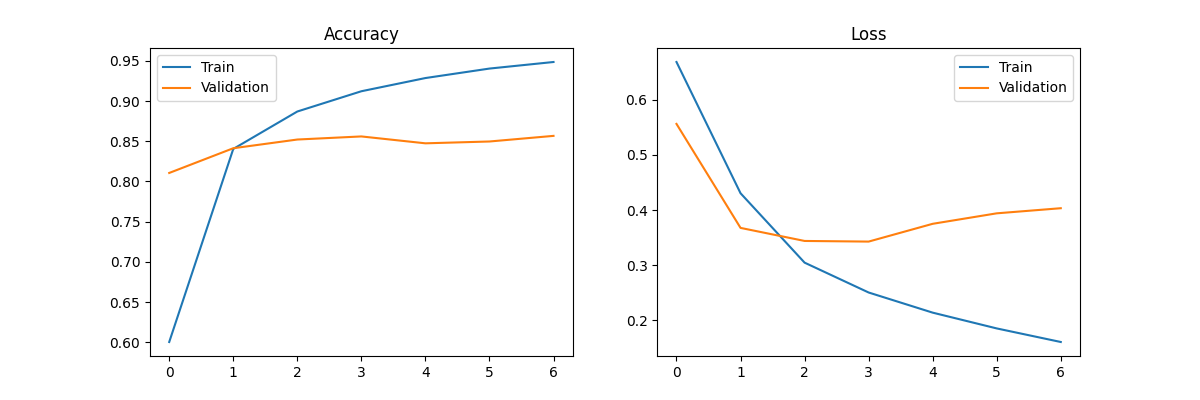
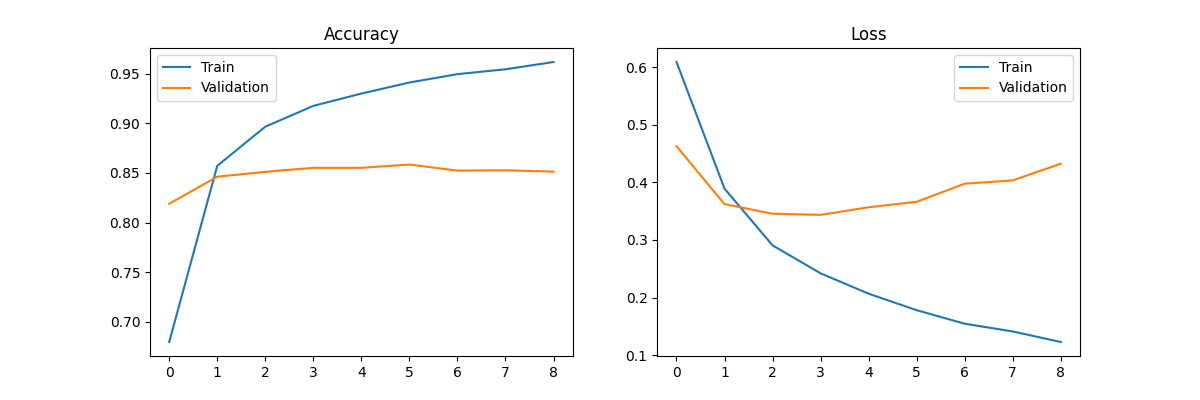
Updated Visuals for Qlstm

diff --git a/Quantum-LSTM/qlstm.py b/Quantum-LSTM/qlstm.py
@@ -23,8 +23,9 @@ BATCH_SIZE = 32
 EPOCHS = 10
 QUBITS = 4
 Q_LAYERS = 2
+OUTPUT_DIR = "sarcasm_outputs"
 
-os.makedirs('sarcasm_outputs', exist_ok=True)
+os.makedirs(OUTPUT_DIR, exist_ok=True)
 
 # ===== DATA CLEANING =====
 def clean_text(text):
@@ -141,8 +142,12 @@ if __name__ == "__main__":
                 yticklabels=["Non-Sarcastic", "Sarcastic"],
                 annot_kws={"size": 22})
     
-    plt.title("Confusion Matrix")
-    plt.savefig("sarcasm_outputs/confusion_matrix.png")
+    plt.title("Confusion Matrix",fontsize = 20)
+    plt.xlabel("Predicted Label",fontsize = 20)
+    plt.ylabel("True Label",fontsize = 20)
+    plt.xticks(fontsize = 20)
+    plt.yticks(fontsize = 20)
+    plt.savefig(os.path.join(OUTPUT_DIR, 'confusion_matrix.png'), dpi=300, bbox_inches='tight')
     plt.close()
 
     print("✅ All results saved to 'sarcasm_outputs' folder.")
